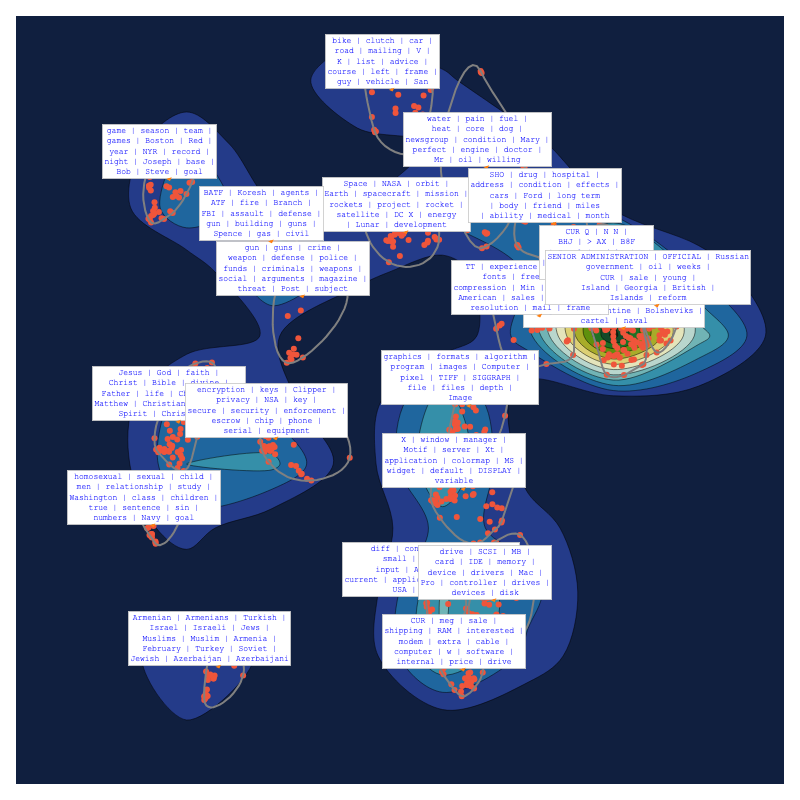
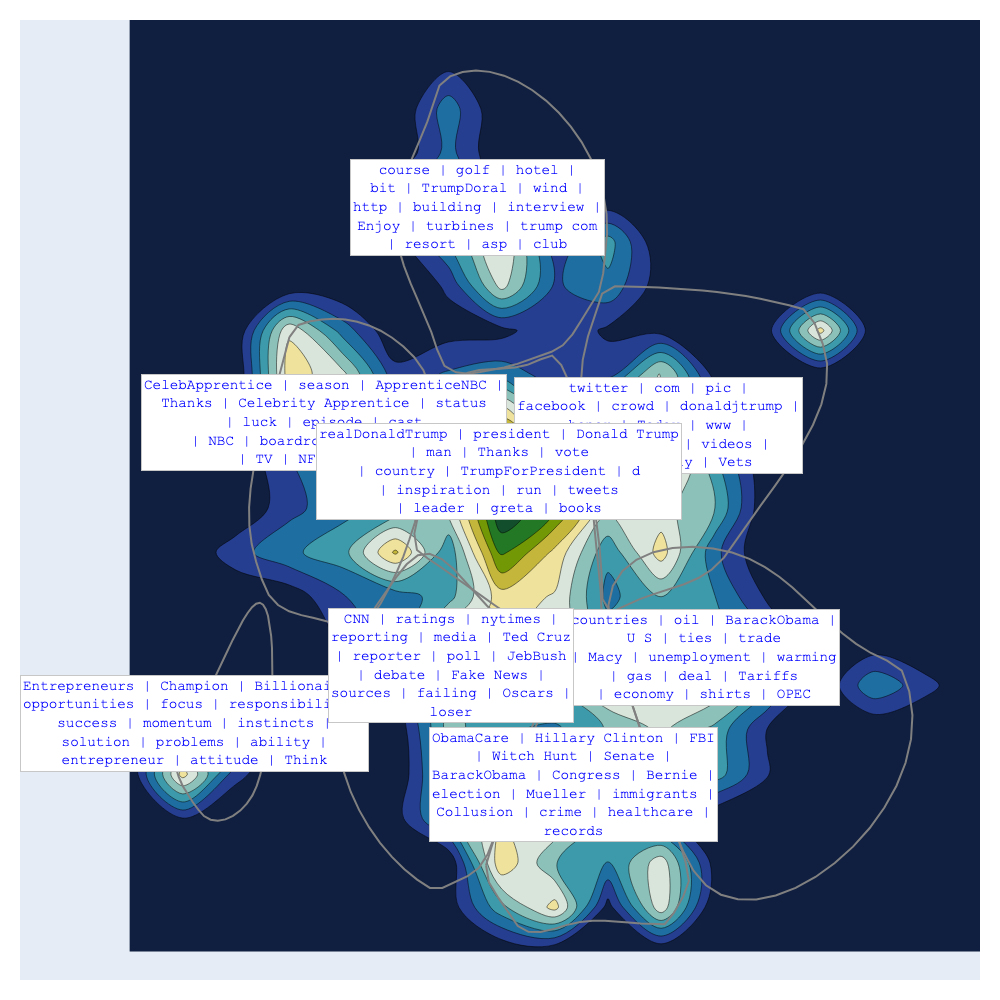
modify README.md

diff --git a/README.md b/README.md
@@ -60,15 +60,15 @@ poetry shell
 
 ## Quick Start
 
-We start by extracting topics from the well-known 20 newsgroups dataset containing English documents:
+We start by extracting topics from the Twitter Trump Dataset:
 
 ```python
 from bunkatopics import Bunka
-from sklearn.datasets import fetch_20newsgroups
 import random
- 
-full_docs = fetch_20newsgroups(subset='all',  remove=('headers', 'footers', 'quotes'))['data']
-full_docs_random = random.sample(full_docs, 1000)
+from datasets import load_dataset
+
+dataset = load_dataset("rguo123/trump_tweets")['train']['content']
+full_docs = random.sample(dataset, 10000)
 
 ```
 
@@ -98,9 +98,18 @@ embedding_model = HuggingFaceInstructEmbeddings(model_name="hkunlp/instructor-la
 bunka = Bunka(model_hf=embedding_model)
 
 bunka.fit(full_docs)
-df_topics = bunka.get_topics(n_clusters = 20)
+df_topics = bunka.get_topics(n_clusters = 8)
 
 ```
+
+Then, we can visualize
+
+```python
+topic_fig = bunka.visualize_topics( width=800, height=800)
+topic_fig
+```
+
+<img src="images/newsmap.png" width="70%" height="70%" align="center" />
 
 You can get the topics summarized by OpenAI
 
@@ -120,26 +129,19 @@ df_clean_names = bunka.get_clean_topic_name(openai_key = os.getenv("OPEN_AI_KEY"
 
 ```
 
-Then, we can visualize
-
-```python
-topic_fig = bunka.visualize_topics( width=800, height=800)
-topic_fig
-...
-```
+<img src="images/newsmap_clean.png" width="70%" height="70%" align="center" />
 
 The map display the different texts on a 2-Dimensional unsupervised scale. Every region of the map is a topic described by its most specific terms.
 
-<img src="images/newsmap.png" width="70%" height="70%" align="center" />
-
 ```python
 
-bourdieu_fig = bunka.visualize_bourdieu(x_left_words=["past"],
-                                        x_right_words=["future", "futuristic"],
-                                        y_top_words=["politics", "Government"],
-                                        y_bottom_words=["cultural phenomenons"],
-                                        height=2000,
-                                        width=2000)
+bourdieu_fig = bunka.visualize_bourdieu(x_left_words=["politics"],
+                                        x_right_words=["business"],
+                                        y_top_words=['promises'],
+                                        y_bottom_words=['threats'],
+                                        height=1000,
+                                        width=1000, 
+                                        clustering =False)
 ```  
 
 The power of this visualisation is to constrain the axis by creating continuums and looking how the data distribute over these continuums. The inspiration is coming from the French sociologist Bourdieu, who projected items on [2 Dimensional maps](https://www.politika.io/en/notice/multiple-correspondence-analysis).
@@ -200,6 +202,7 @@ Below, you will find an overview of common functions in BERTopic.
 | Fit the model and get the topics  |  `.fit_transform(docs)` |
 | Acces the topics   | `.get_topics(n_clusters=10)`  |
 | Access the top documents per topic    |  `.get_top_documents()` |
+| Access the top documents per topic    |  `.get_clean_topic_name()` |
 | Access the distribution of topics   |  `.get_topic_repartition()` |
 | Visualize the topics on a Map |  `.visualize_topics()` |
 | Visualize the topics on Natural Language Supervised axis | `.visualize_bourdieu()` |
